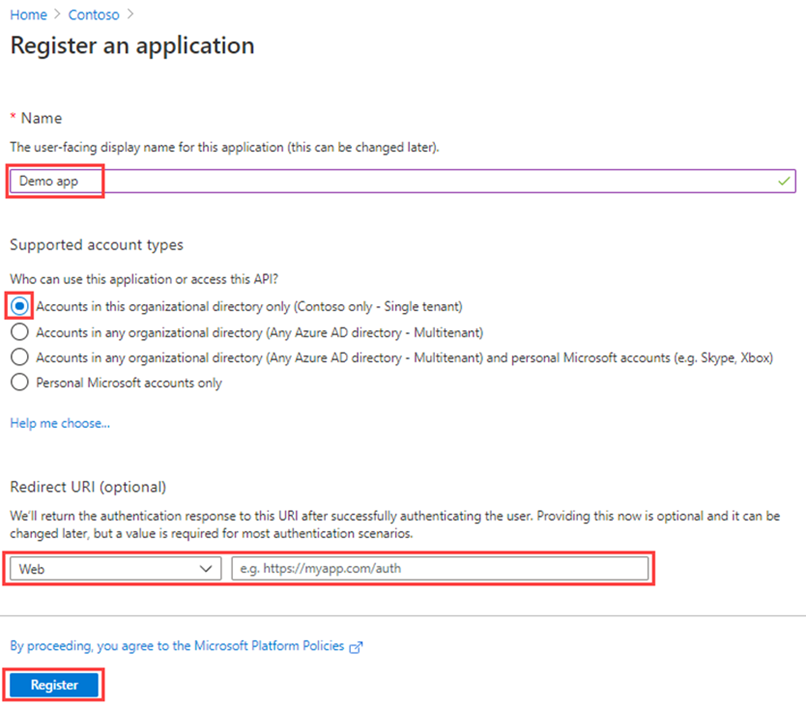
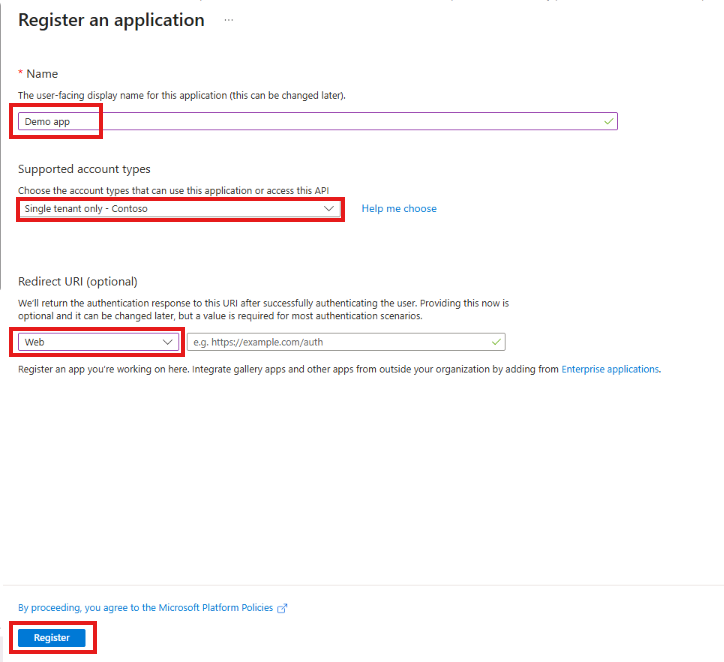
fix(lab19): clarify app registration values and refresh screenshot

diff --git a/Instructions/Labs/Lab_19_RegisterAnApplication.md b/Instructions/Labs/Lab_19_RegisterAnApplication.md
@@ -29,7 +29,7 @@ Registering your application establishes a trust relationship between your app a
 
 1. On the **App registrations** page, on the menu, select **+ New registration**.
 
-1. On the **Register an application** blade, register an app named **Demo app** using the default values. You do not need to enter the redirect URI.
+1. On the **Register an application** blade, register an app named **`Demo app`** using the default values. You do not need to enter the redirect URI.
 
     ![Screen image displaying the Register an application page with the name and default settings highlighted](./media/lp3-mod3-register-an-application.png)
 
@@ -88,7 +88,7 @@ You can add both certificates and client secrets (a string) as credentials to yo
 
 1. Add a description for your client secret and duration
 
-    - Description: **SC300 lab secret**
+    - Description: **`SC300 lab secret`**
     - Duration: **90 days (3 months)**
 
 1. Select **Add**.
@@ -109,7 +109,7 @@ First, follow these steps to create an example scope named Employees.Read.All:
 
     ![An app registration's Expose an API pane in the Azure portal](./media/portal-02-expose-api.png)
 
-1. You're prompted to set an **Application ID URI**. Set the value to **api://DemoAppAPI**
+1. You're prompted to set an **Application ID URI**. Set the value to **`api://DemoAppAPI`**
 
     >**Note:** The App ID URI acts as the prefix for the scopes you'll reference in your API's code, and it must be globally unique. You can use the default value provided, which is in the form api://<application-client-id\>, or specify a more readable URI like `https://contoso.com/api`.
 
@@ -119,12 +119,12 @@ First, follow these steps to create an example scope named Employees.Read.All:
 
     | Field| Description| Value |
     | :--- | :--- | :--- |
-    | Scope name| The name of your scope. A common scope naming convention is resource.operation.constraint.| Employees.Read.All|
-    | Who can consent| Whether this scope can be consented to by users or if admin consent is required. Select Admins only for higher-privileged permissions.| Admins and users|
-    | Admin consent display name| A short description of the scope's purpose that only admins will see.| Read-only access to employee records|
-    | Admin consent description| A more detailed description of the permission granted by the scope that only admins will see.| Allow the application to have read-only access to all employee data.|
-    | User consent display name| A short description of the scope's purpose. Shown to users only if you set Who can consent to Admins and users.| Read-only access to your employee records|
-    | User consent description| A more detailed description of the permission granted by the scope. Shown to users only if you set Who can consent to Admins and users.| Allow the application to have read-only access to your employee data.|
+    | Scope name| The name of your scope. A common scope naming convention is resource.operation.constraint.| `Employees.Read.All`|
+    | Who can consent| Whether this scope can be consented to by users or if admin consent is required. Select Admins only for higher-privileged permissions.| Admins and users |
+    | Admin consent display name| A short description of the scope's purpose that only admins will see.| `Read-only access to employee records` |
+    | Admin consent description| A more detailed description of the permission granted by the scope that only admins will see.| `Allow the application to have read-only access to all employee data.` |
+    | User consent display name| A short description of the scope's purpose. Shown to users only if you set Who can consent to Admins and users.| `Read-only access to your employee records` |
+    | User consent description| A more detailed description of the permission granted by the scope. Shown to users only if you set Who can consent to Admins and users.| `Allow the application to have read-only access to your employee data.` |
 
 1. Set the **State** to **Enabled**, and then select **Add scope**.
 
@@ -146,10 +146,10 @@ Next, add another example scope named Employees.Write.All that only admins can
 
     | Field| Example value|
     | :--- | :--- |
-    | Scope name| Employees.Write.All|
+    | Scope name| `Employees.Write.All` |
     | Who can consent| Admins only|
-    | Admin consent display name| Write access to employee records|
-    | Admin consent description| Allow the application to have write access to all employee data.|
+    | Admin consent display name| `Write access to employee records` |
+    | Admin consent description| `Allow the application to have write access to all employee data.` |
     | User consent display name| None (leave empty)|
     | User consent description| None (leave empty)|
 
@@ -184,7 +184,7 @@ You need to create a new custom role for app management. This new role should be
 
     ![Screen image displaying the Roles and administrators blade with the New custom role menu option highlighted](./media/lp3-mod1-new-custom-role.png)
 
-1. In the New custom role dialog, on the Basics tab, in the name box, enter **My custom app role**.
+1. In the New custom role dialog, on the Basics tab, in the name box, enter **`My custom app role`**.
 
 1. Review the remaining options and then select **Next**.
 
